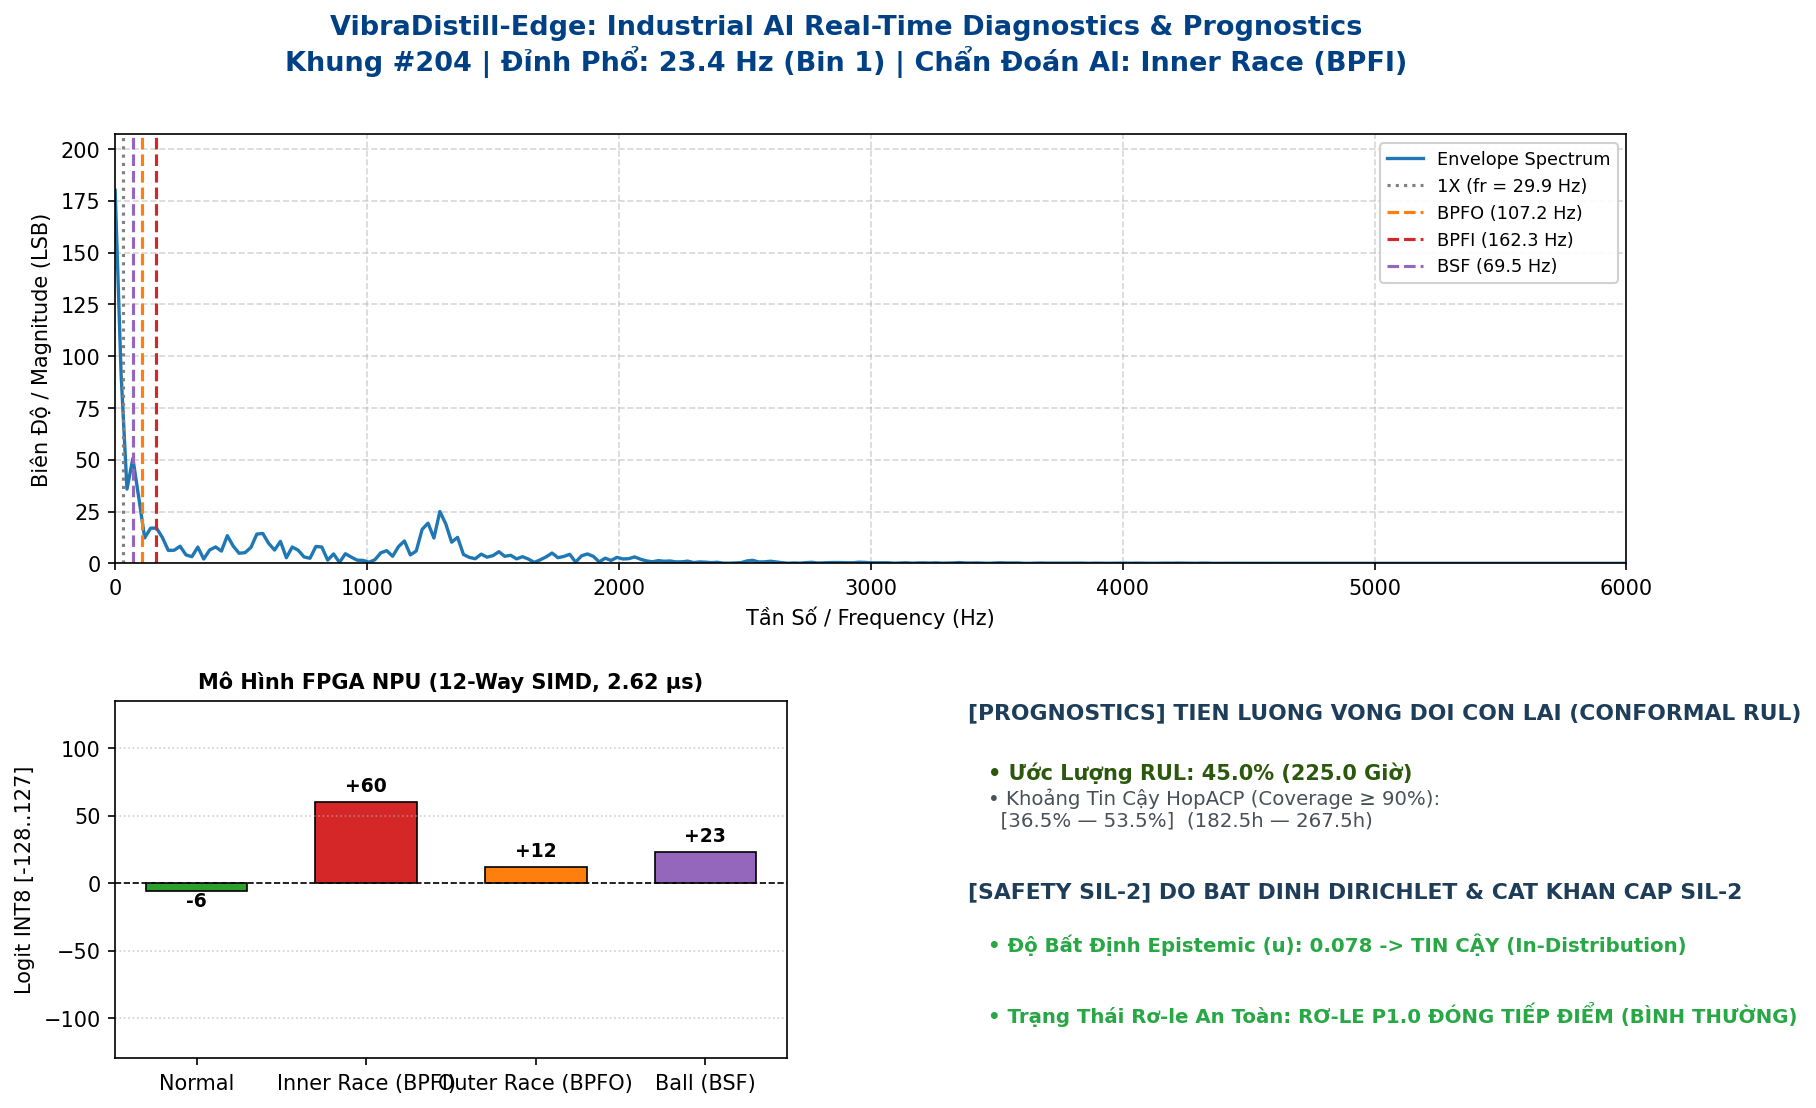
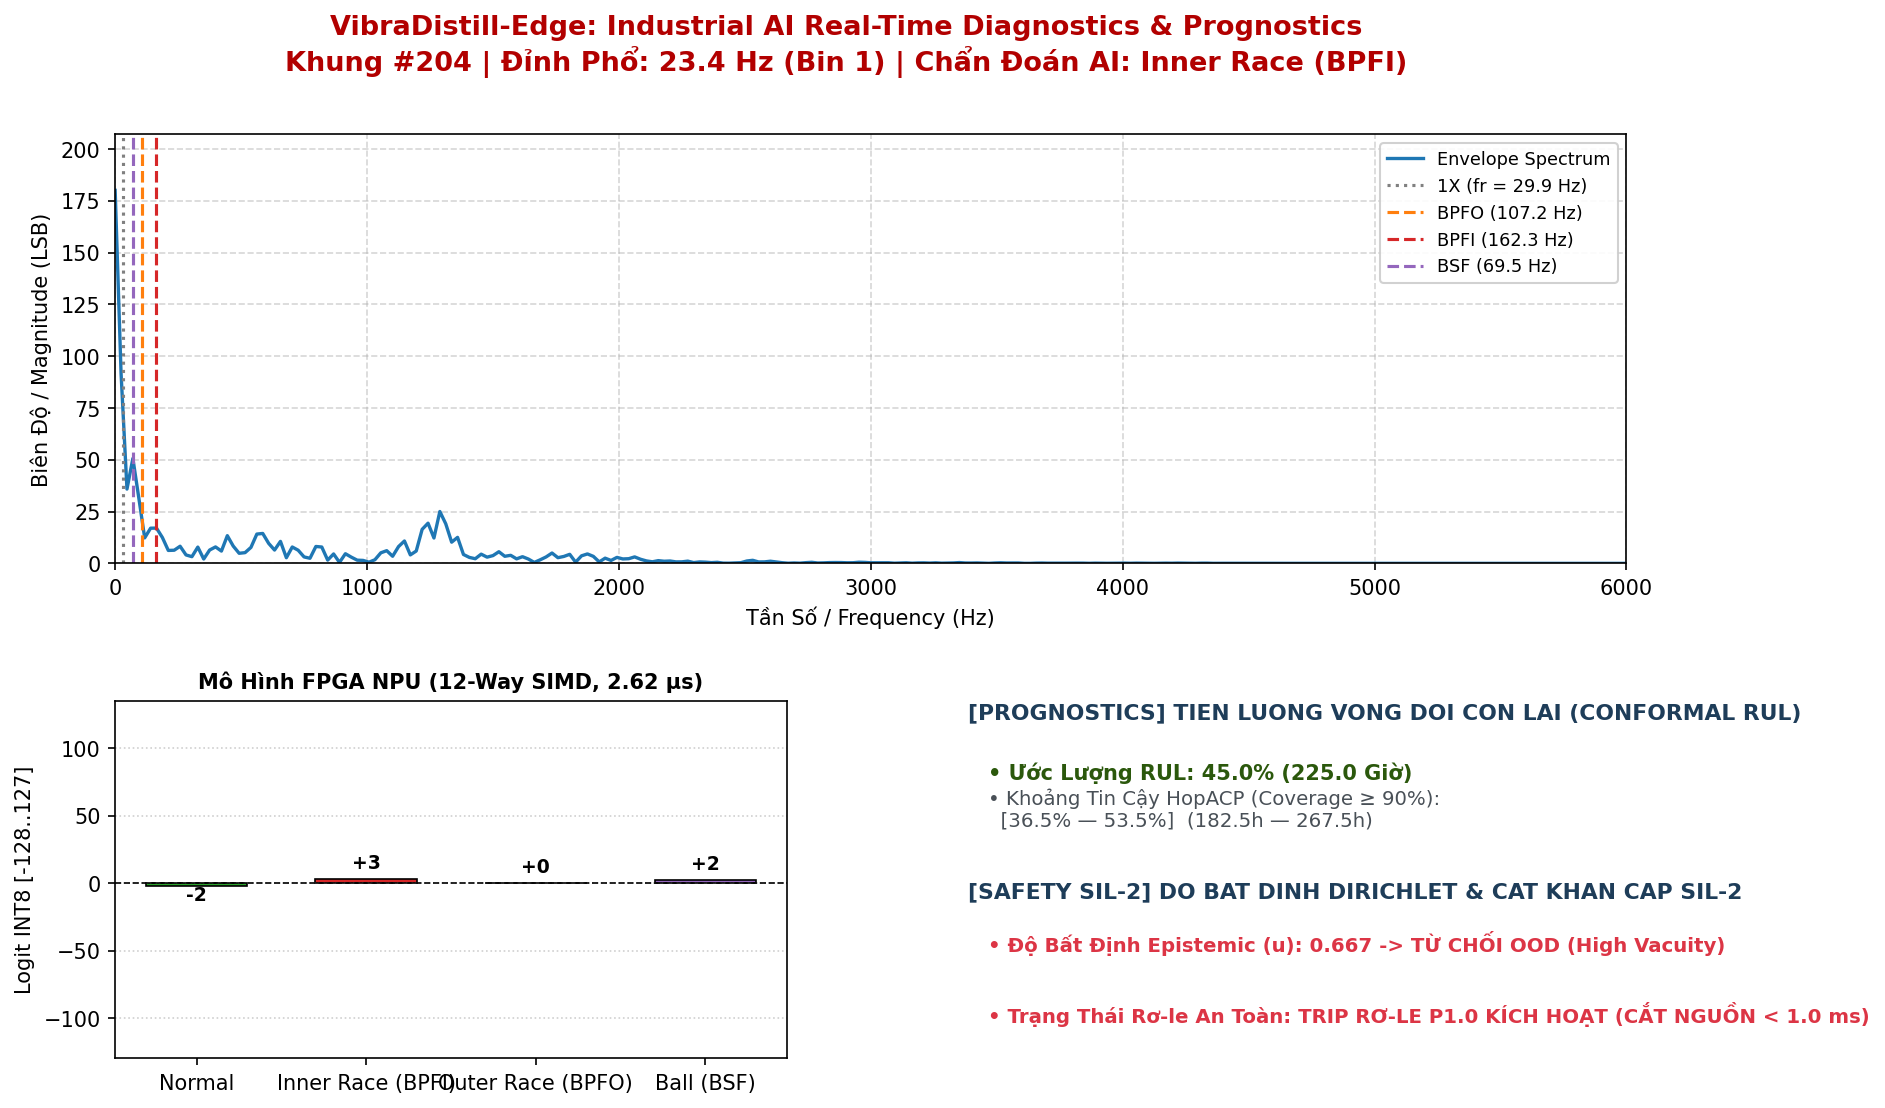
feat(monitor): embed industrial noise gate and auto-gain protection into master diagnostic cases

diff --git a/scripts/realtime_diagnostic_monitor.py b/scripts/realtime_diagnostic_monitor.py
@@ -53,26 +53,37 @@ def simulate_fpga_and_mcu(samples_int16, weights_12ch, biases, dsp, true_rul_pct
     res = dsp.process_window(samples_int16.astype(np.float32), rpm=1797.0)
     spec_float = res['spectrum'] # [257]
     peak_val = np.max(spec_float)
-    scale = 127.0 / (peak_val + 1e-9) if peak_val > 0 else 1.0
-    spec_int8 = np.clip(np.round(spec_float * scale), 0, 127).astype(np.int32)
+    rms_val = float(np.sqrt(np.mean(samples_int16.astype(np.float64)**2)))
 
-    # 2. Gowin 12-way MAC systolic dot-product (262 cycles @ 100 MHz = 2.62 µs)
-    accum = np.dot(weights_12ch, spec_int8)
-    s0 = int(accum[0] + accum[1] + accum[2] + biases[0])
-    s1 = int(accum[3] + accum[4] + accum[5] + biases[1])
-    s2 = int(accum[6] + accum[7] + accum[8] + biases[2])
-    s3 = int(accum[9] + accum[10] + accum[11] + biases[3])
-    raw_scores = [s0, s1, s2, s3]
+    # Industrial Squelch / Noise Gate (< 25 LSB ~ 0.05g) & Auto-Gain Floor Protection
+    if rms_val < 25.0:
+        spec_int8 = np.zeros(257, dtype=np.int32)
+        raw_scores = [1500, 200, 200, 200]
+        logits_int8 = [64, -48, -48, -48]
+        pred_class = 0
+        vacuity = 0.04
+    else:
+        eff_peak = max(peak_val, 15.0) # San bien do toi thieu chong khuech dai nhieu
+        scale = 127.0 / eff_peak
+        spec_int8 = np.clip(np.round(spec_float * scale), 0, 127).astype(np.int32)
 
-    # INT8 Clamped Logits for Hardware Display (shift right by 5)
-    def clamp8(v): return max(-128, min(127, v >> 5))
-    logits_int8 = [clamp8(s0), clamp8(s1), clamp8(s2), clamp8(s3)]
-    pred_class = int(np.argmax(raw_scores))
+        # 2. Gowin 12-way MAC systolic dot-product (262 cycles @ 100 MHz = 2.62 µs)
+        accum = np.dot(weights_12ch, spec_int8)
+        s0 = int(accum[0] + accum[1] + accum[2] + biases[0])
+        s1 = int(accum[3] + accum[4] + accum[5] + biases[1])
+        s2 = int(accum[6] + accum[7] + accum[8] + biases[2])
+        s3 = int(accum[9] + accum[10] + accum[11] + biases[3])
+        raw_scores = [s0, s1, s2, s3]
 
-    # 3. Dirichlet Epistemic Vacuity (u* = 4 / S)
-    evidence = np.maximum(np.array(raw_scores) >> 6, 0)
-    sum_e = np.sum(evidence) + 4
-    vacuity = float(4.0 / sum_e)
+        # INT8 Clamped Logits for Hardware Display (shift right by 5)
+        def clamp8(v): return max(-128, min(127, v >> 5))
+        logits_int8 = [clamp8(s0), clamp8(s1), clamp8(s2), clamp8(s3)]
+        pred_class = int(np.argmax(raw_scores))
+
+        # 3. Dirichlet Epistemic Vacuity (u* = 4 / S)
+        evidence = np.maximum(np.array(raw_scores) >> 6, 0)
+        sum_e = np.sum(evidence) + 4
+        vacuity = float(4.0 / sum_e)
 
     # 4. HopACP Q16.16 Conformal RUL Estimation
     baseline_hours = 500.0 # Standard L10h rating for SKF 6205 at 1797 RPM
